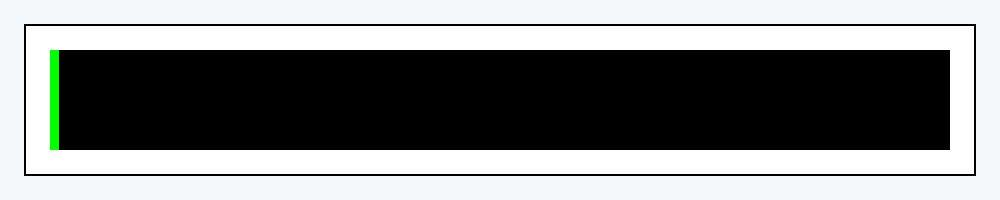
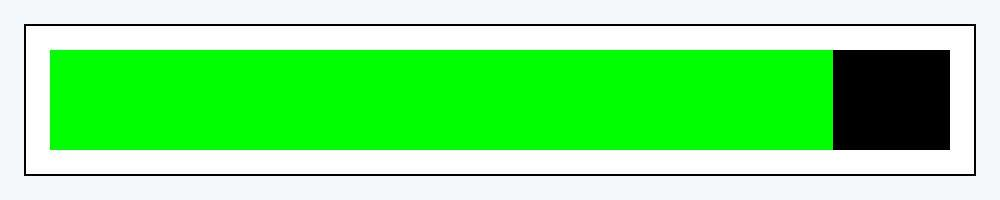
Barra implementada.

diff --git a/bot.py b/bot.py
@@ -1,4 +1,4 @@
-import auth
+import auth, bar
 import threading, time
 import datetime
 from random import randrange
@@ -38,14 +38,21 @@ def bot():
     print("vazio")
     emojis = emoji[1][1]
 
-  texto = "Faltam {} dias para o carnaval de 2020! {}".format(final, emojis)
+  print("------------------------")
+  print(ayear)
+  value = int(((ayear-int(daysleft))*100)/ayear)
+  print("{}% ja se foi".format(value))
+  bar.main(value)
+  print("------------------------")
+
+  texto = "Faltam {} dias para o carnaval de {}! {}\n{}% do periodo.".format(final, year, emojis, value)
 
   print(texto)
-  texto_rio = "E {} dias para os 50 dias de carnaval no RJ.".format(final_rio)
-  print(texto_rio)
+  # texto_rio = "E {} dias para os 50 dias de carnaval no RJ.".format(final_rio)
+  # print(texto_rio)
   try:
     print("postando no try")
-    api.update_status(status=texto)
+    api.update_with_media("./img/bar_final.jpeg", status=texto)
   finally:
     last_post = dtnow
     print("Postou! no horario:")
@@ -90,7 +97,9 @@ def main():
  
 number_emoji = ['0⃣', '1⃣', '2⃣', '3⃣', '4⃣', '5⃣', '6⃣', '7⃣', '8⃣', '9⃣']
 emoji = [['💃', '🌈', '🎆'], ['🎉', '🎉🎊'], ['🎭']]
-carnaval = datetime.datetime(2020,2,21)
-carnaval_rio = datetime.datetime(2020,1,12)
+year = 2020
+carnaval = datetime.datetime(year,2,21)
+ayear = int((datetime.datetime(year,12,31) - datetime.datetime(year,1,1)).days)
+carnaval_rio = datetime.datetime(year,1,12)
 qtd = 0
 main()
